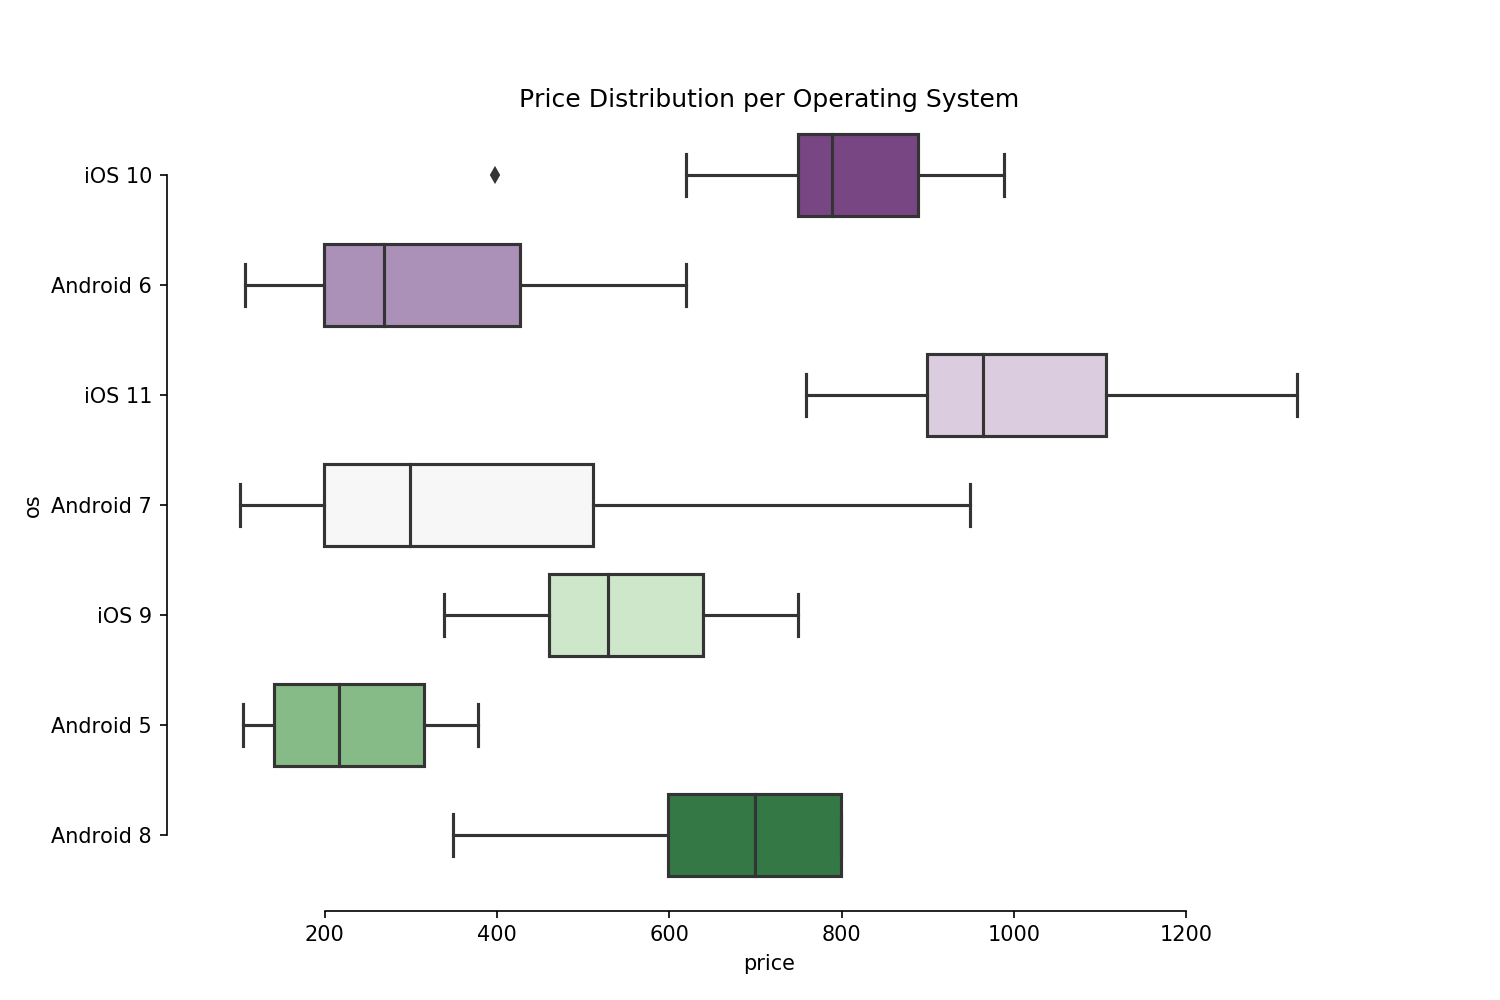
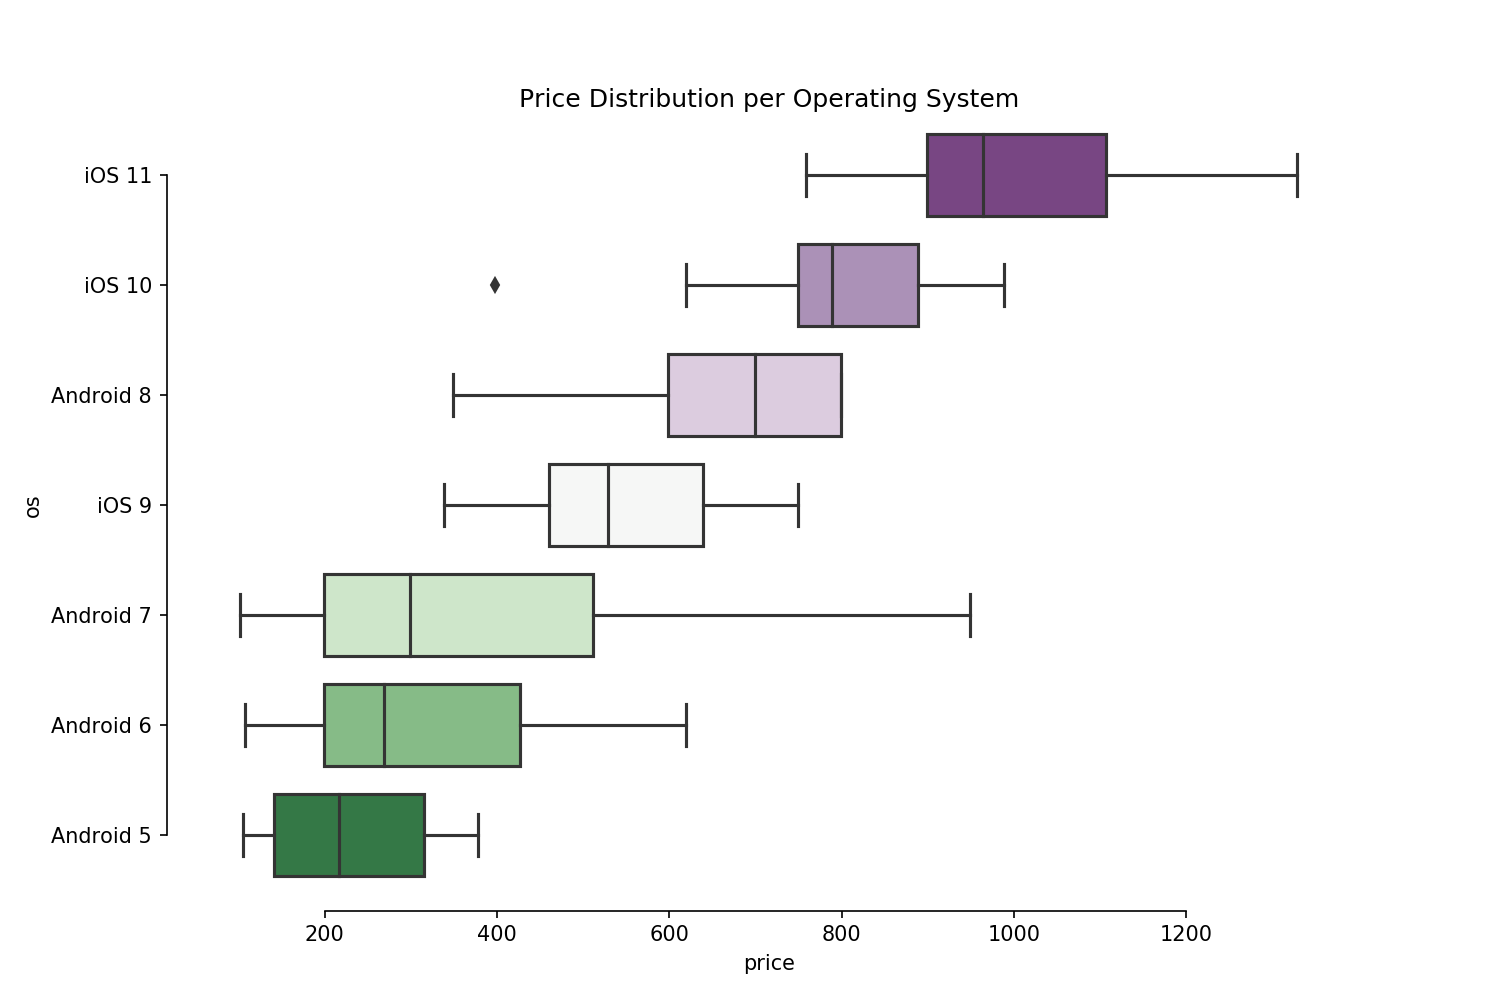
Plot 'Price Distribution per Operating System' updated

diff --git a/code/data_visualization.py b/code/data_visualization.py
@@ -30,7 +30,9 @@ plt.savefig('plots/price_distribution_brand.png')
 plt.figure(figsize=(X_INCH, Y_INCH), dpi=DPI)
 sns.boxplot(x='price',
             y='os',
-            data=PRODUCTINFO[PRODUCTINFO.os.notnull()].groupby('os').filter(lambda x: len(x) > 5),
+            data=PRODUCTINFO.groupby('os').filter(lambda x: len(x) > 5),
+            order=list(PRODUCTINFO.groupby('os').filter(lambda x: len(x) > 5)
+                       .groupby('os').price.median().sort_values(ascending=False).index),
             palette='PRGn',
             width=0.75).set_title('Price Distribution per Operating System')
 sns.despine(offset=10, trim=True)
